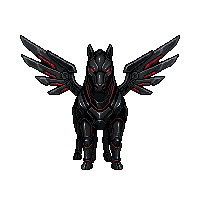
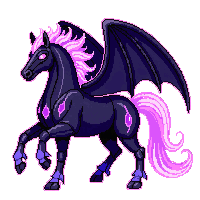
Rewire Pegasus as the Shadow Monarch warhorse (baby-first)
Replaces the old "black mecha warhorse" with the approved purple shadow look:
an obsidian winged warhorse wreathed in violet flame with glowing purple eyes.
Wires Pegasus baby-first like the other 9 species — T1 baby (pegasus_baby_idle)
-> T2 adult (pegasus_idle) — closing the last gap from the redesign roadmap.

Animation needs the PixelLab object-mode MCP tool, which isn't available in
this session, so both tiers are wired frames:1 static (the same fallback the
dragon T3/T4 tiers use); animate when the MCP path returns.

- public/beasts/anim/pegasus_idle/0.png: new adult (Nightmare), 200x200
- public/beasts/anim/pegasus_baby_idle/0.png: new baby (Shadefoal), 200x200
- removed stale mecha frames pegasus_idle/1-6.png
- beastAnims.js: pegasus baby-first, frames:1 each tier
- beasts.js: shadow desc + forms (Shadefoal/Duskwing/Nightmare/Nightmare Prime)
- scripts/generate-pegasus-final.mjs: regenerable adult+baby generator

Build clean; 371 tests pass.

https://claude.ai/code/session_0148NAF11t57rWpDQpHJ3DLt

diff --git a/src/data/beastAnims.js b/src/data/beastAnims.js
@@ -30,8 +30,10 @@ export const BEAST_ANIMS = {
   // species key is `unicorn` (renamed to Qilin in display only)
   unicorn:  { 1: { folder: 'qilin_baby_idle', frames: 7, fps: 8 },    2: { folder: 'qilin_idle', frames: 7, fps: 8 } },
   sphinx:   { 1: { folder: 'sphinx_baby_idle', frames: 7, fps: 8 },   2: { folder: 'sphinx_idle', frames: 7, fps: 8 } },
-  // Pegasus: baby pending the user's redesign — adult stays at tier 1 for now.
-  pegasus:  { 1: { folder: 'pegasus_idle', frames: 7, fps: 8 } },
+  // Pegasus: redesigned as a Shadow Monarch warhorse (obsidian + violet flame).
+  // Static frames:1 for now — object-mode animation needs the PixelLab MCP tool
+  // (absent in the redesign session); animate baby + adult when it's available.
+  pegasus:  { 1: { folder: 'pegasus_baby_idle', frames: 1, fps: 1 }, 2: { folder: 'pegasus_idle', frames: 1, fps: 1 } },
 };
 
 export function beastIdleFrames(species, tier) {

diff --git a/src/data/beasts.js b/src/data/beasts.js
@@ -19,7 +19,7 @@ export const BEASTS = {
   kraken:   { name: 'Kraken',   element: 'water',  archetype: 'Deep diver — one concept at a time.',              desc: 'An eldritch dweller of the lightless trenches — patient, fathomless, and never rushed.', forms: ['Tideling', 'Deepmaw', 'Abyssal', 'Abyssal Prime'] },
   hydra:    { name: 'Hydra',    element: 'water',  archetype: 'Multitasker — parallel paths.',                    desc: 'A many-headed water serpent — sever one thread of thought and two more rise to take it up.', forms: ['Twincoil', 'Triscale', 'Heptyr', 'Heptyr Prime'] },
   cerberus: { name: 'Cerberus', element: 'earth',  archetype: 'Guardian — perfects the fundamentals.',           desc: 'A three-headed warden hound, blue gem alight, that guards the foundations and forgets nothing.', forms: ['Pupguard', 'Wardenhound', 'Cerberus', 'Cerberus Prime'] },
-  pegasus:  { name: 'Pegasus',  element: 'sky',    archetype: 'Momentum-driven — a fast learner.',                desc: 'A black mecha warhorse, all blades and red light — momentum given armored form.', forms: ['Coltwing', 'Galehoof', 'Celestride', 'Celestride Prime'] },
+  pegasus:  { name: 'Pegasus',  element: 'sky',    archetype: 'Momentum-driven — a fast learner.',                desc: 'A warhorse summoned from living shadow — obsidian flank wreathed in violet flame, eyes burning cold purple.', forms: ['Shadefoal', 'Duskwing', 'Nightmare', 'Nightmare Prime'] },
   sphinx:   { name: 'Sphinx',   element: 'mystic', archetype: 'Riddle-solver — loves puzzles (FAANG).',           desc: 'A gold-and-crimson guardian of riddles, ancient as Uruk and Giza both — it answers only the worthy.', forms: ['Cubsphinx', 'Riddlepaw', 'Enigmara', 'Enigmara Prime'] },
   wyvern:   { name: 'Wyvern',   element: 'earth',  archetype: 'Lab builder — a pragmatist.',                      desc: 'A rugged earth wyvern — territorial and practical, a tireless builder of nests and labs.', forms: ['Drakeling', 'Cragwyrm', 'Terravyrn', 'Terravyrn Prime'] },
 };